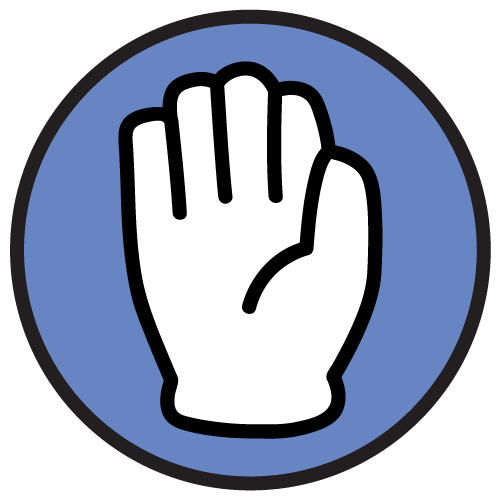
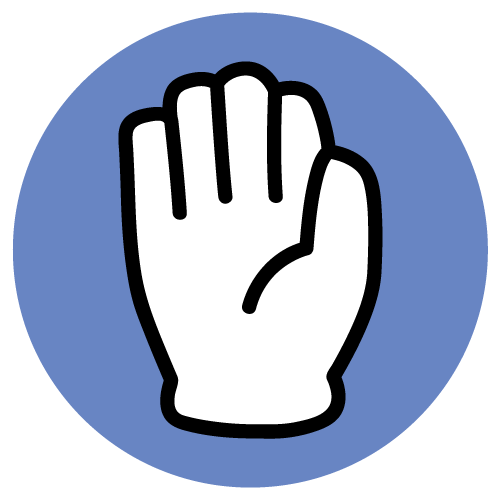
Fix bug on the wepond selection and update the background

Changed region(s): [[0.0, 0.0, 0.99, 0.99]]

diff --git a/css/style.css b/css/style.css
@@ -1,11 +1,6 @@
 
 body {
-  background-color: rgb(37, 37, 37);
-  background-image: url(../images/rpc-background.png);
-  background-repeat: no-repeat;
-  background-size: cover;
-  background-position: center;
-  background-attachment: fixed;
+  background-color: #4a6db9;
   height: 100vh;
   margin: 0;
   display: flex;
@@ -154,6 +149,14 @@ body {
   font-weight: 700;
 }
 
+.pointCounter {
+  display: flex;
+  background-color: rgb(22, 22, 53);
+  width: 270px;
+  border-radius: 10px;
+  justify-content: space-evenly;
+}
+
 .playerPoints,
 .computerPoints,
 .plyResultPoints,
@@ -196,7 +199,7 @@ body {
 }
 
 #rock:hover {
-  background-color: rgba(226, 241, 11, 0.76);
+  background-color: rgba(194, 207, 11, 0.76);
   transform: translateY(-2px);
 }
 
@@ -214,12 +217,12 @@ body {
 }
 
 #paper:hover {
-  background-color: rgba(107, 161, 241, 0.76);
+  background-color: rgba(0, 113, 189, 0.925);
   transform: translateY(-2px);
 }
 
 #paper:active {
-  background-color: rgba(71, 107, 160, 0.76);
+  background-color: rgba(67, 100, 148, 0.76);
   transform: translateY(2px);
 }
 
@@ -232,7 +235,7 @@ body {
 }
 
 #scissors:hover {
-  background-color: rgba(233, 64, 64, 0.76);
+  background-color: rgba(199, 54, 54, 0.76);
   transform: translateY(-2px);
 }
 

diff --git a/index.html b/index.html
@@ -30,12 +30,15 @@
         <div id="pointArea">
           <div id="playerArea">
             <span class="playerSelection"></span>
-            <p class="playerPoints"></p>
+            
           </div>
           <div id="computerArea">
             <span class="computerSelection"></span>
-            <p class="computerPoints"></p>
           </div>
+        </div>
+        <div class="pointCounter">
+          <p class="playerPoints"></p>
+          <p class="computerPoints"></p>
         </div>
       </div>
       <div id="buttonSelection">

diff --git a/javascript/logic.js b/javascript/logic.js
@@ -84,6 +84,8 @@ function restartGame() {
   cptPoints.textContent = "Computer: 0";
   wpnSelection.textContent = "Select your FIST!";
   wonRound.textContent = "Let's see who gets 5 points first";
+  plySelection.textContent = "?";
+  cptSelection.textContent = "?";
 }
 
 function winnerResult() {
